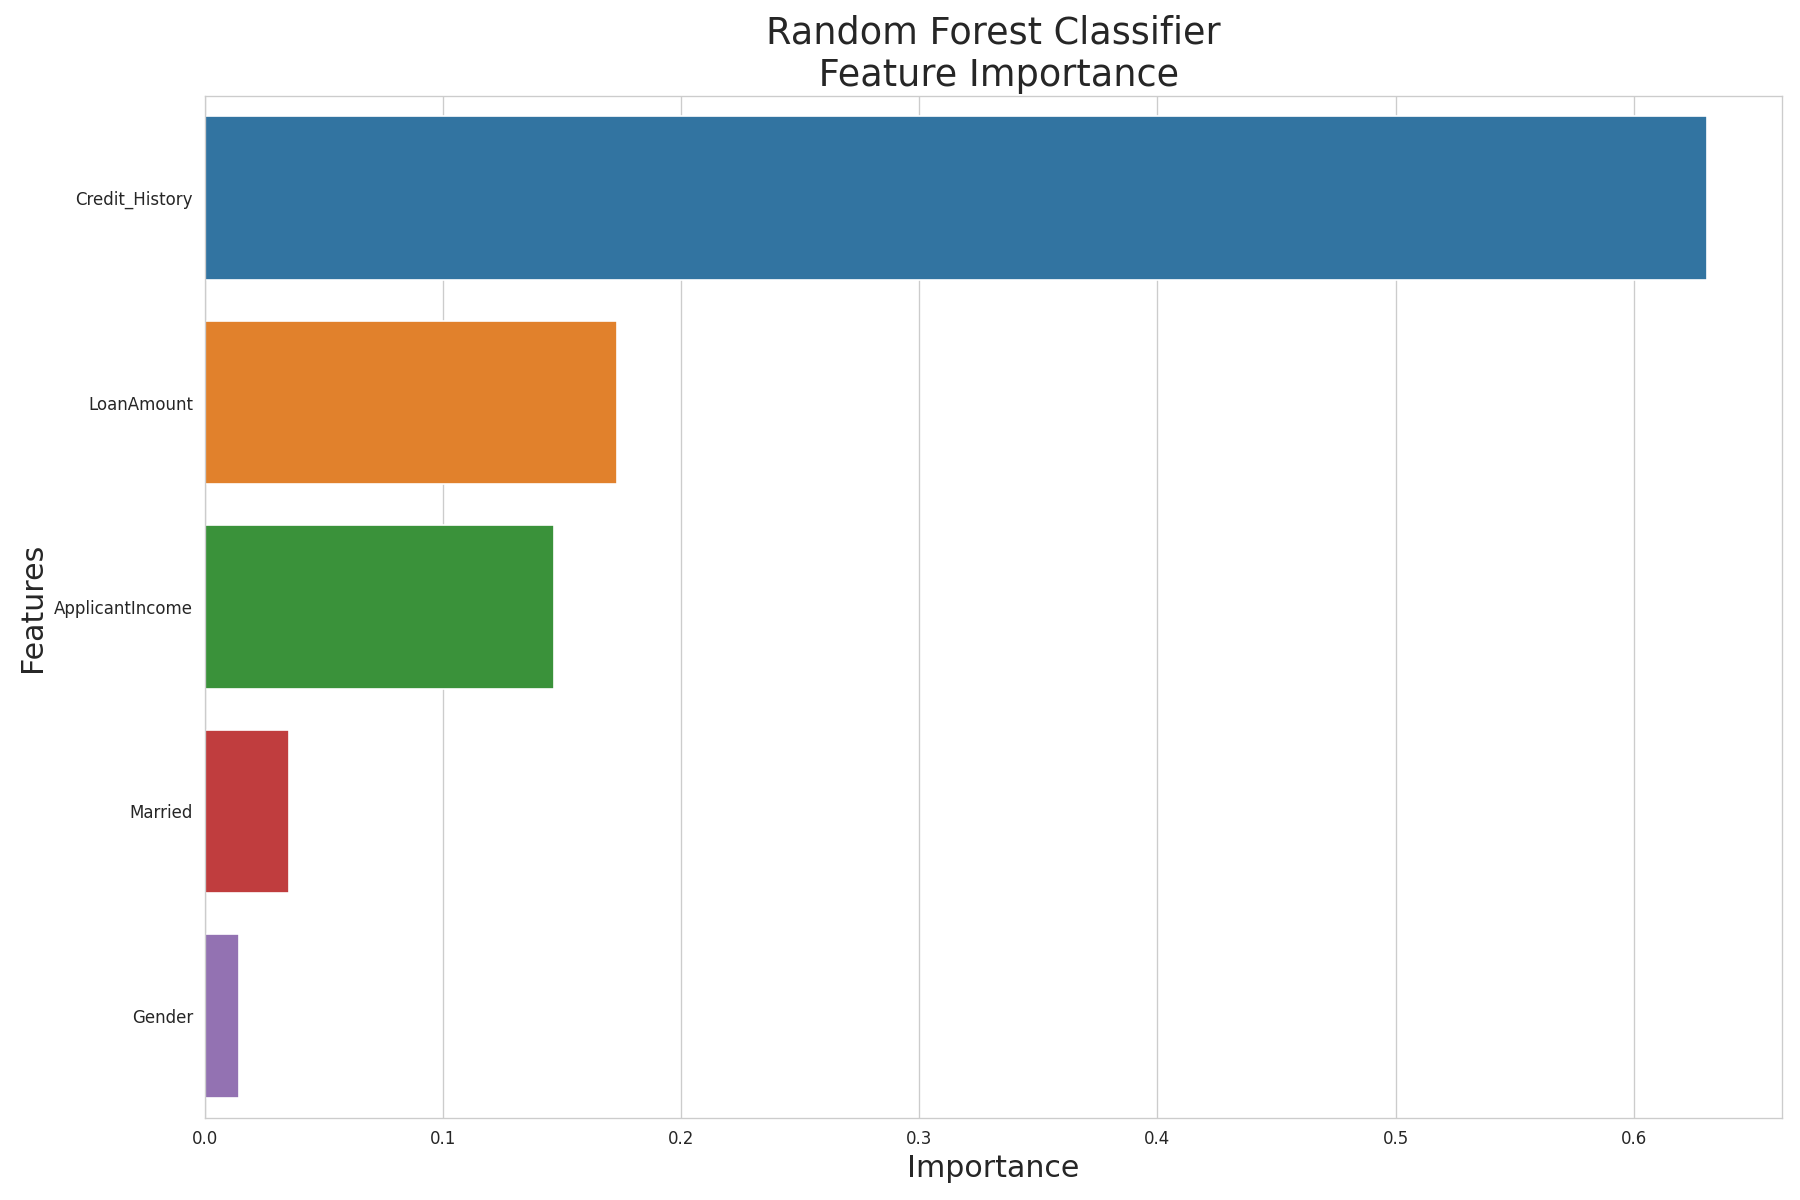
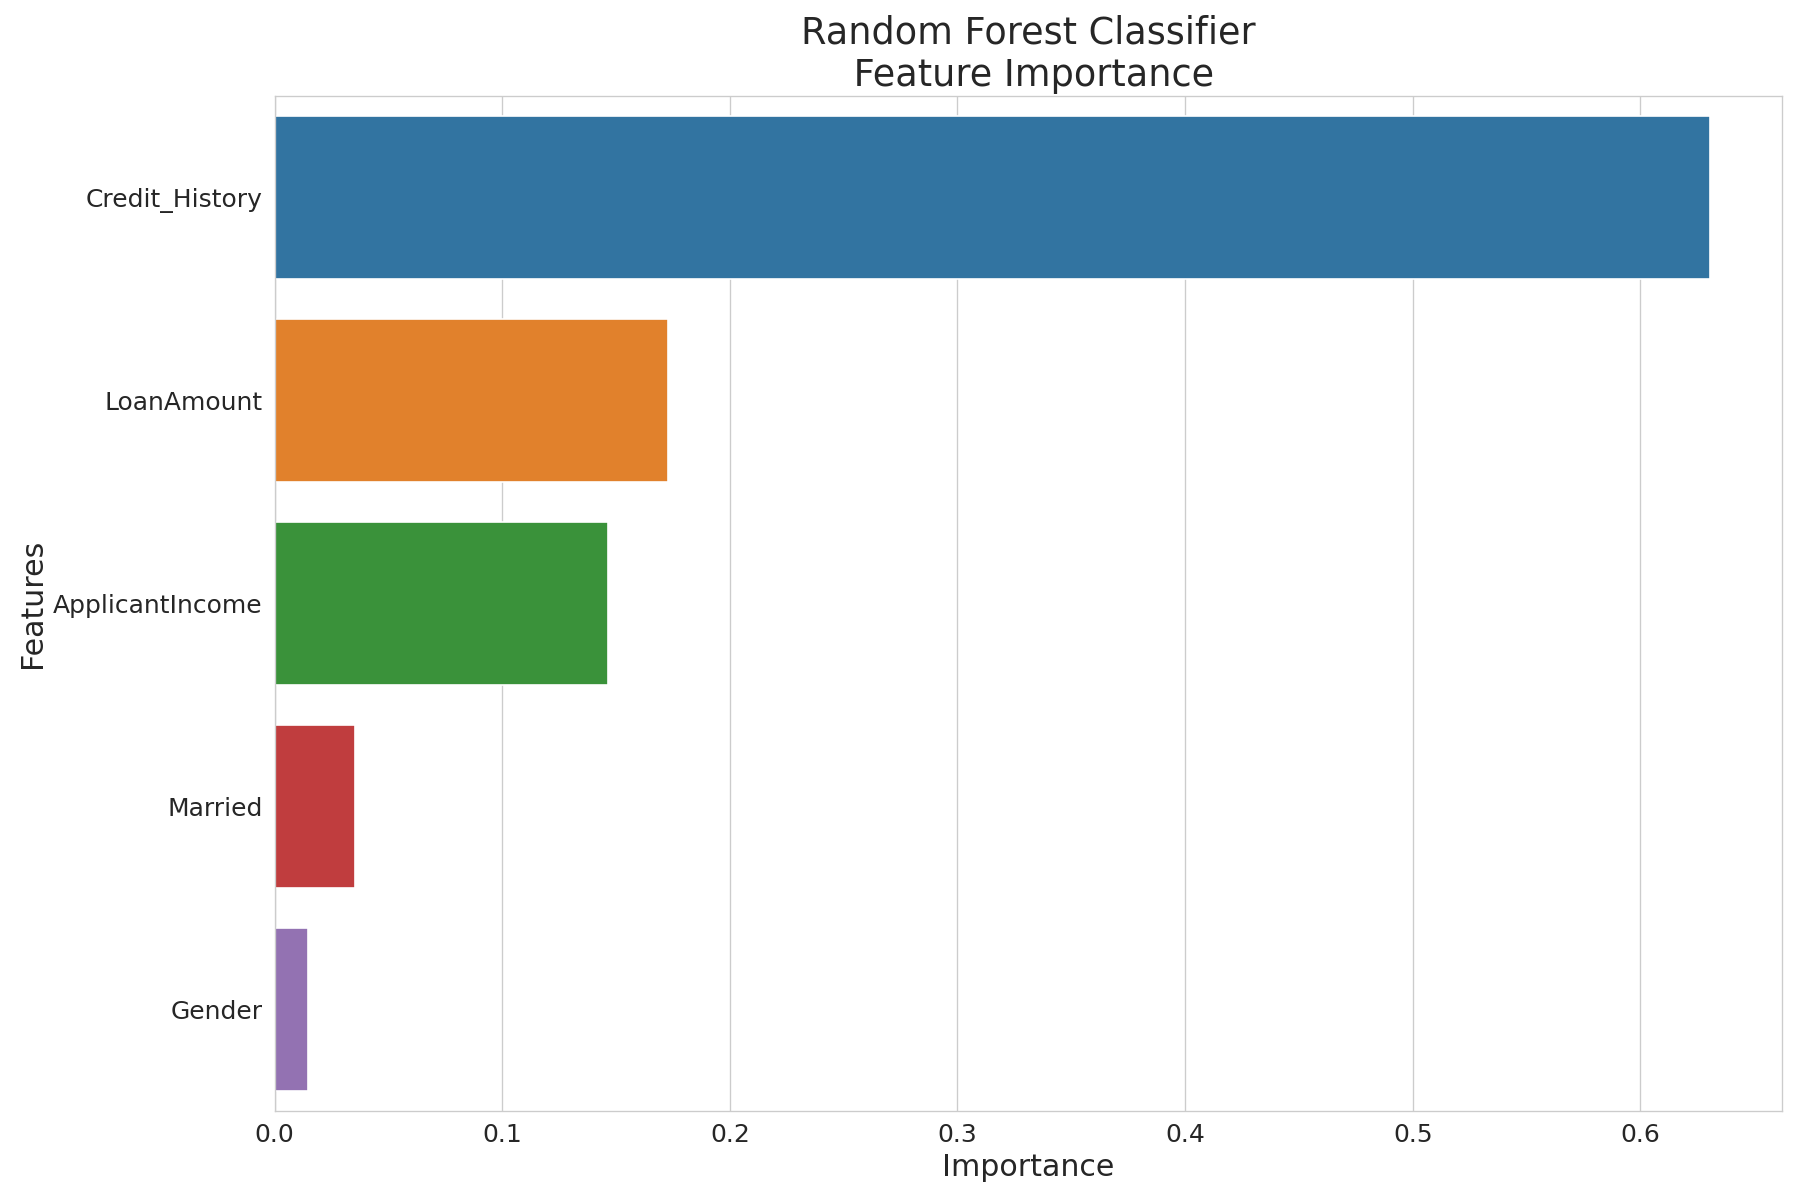
featureImportance ticks improved

diff --git a/build_model.py b/build_model.py
@@ -84,6 +84,7 @@ def main():
     feature_df = feature_df.sort_values(by="Importance", ascending=False)
 
     ## Image Formatting
+    xticks_fs = 15
     axis_fs = 18
     title_fs = 22
     sns.set_style("whitegrid")
@@ -91,6 +92,8 @@ def main():
     ax = sns.barplot(x="Importance", y='Features', data=feature_df)
     ax.set_xlabel("Importance", fontsize=axis_fs)
     ax.set_ylabel("Features", fontsize=axis_fs)
+    plt.xticks(fontsize=xticks_fs)
+    plt.yticks(fontsize=xticks_fs)
     ax.set_title("Random Forest Classifier\n Feature Importance", fontsize=title_fs)
 
     plt.tight_layout()
